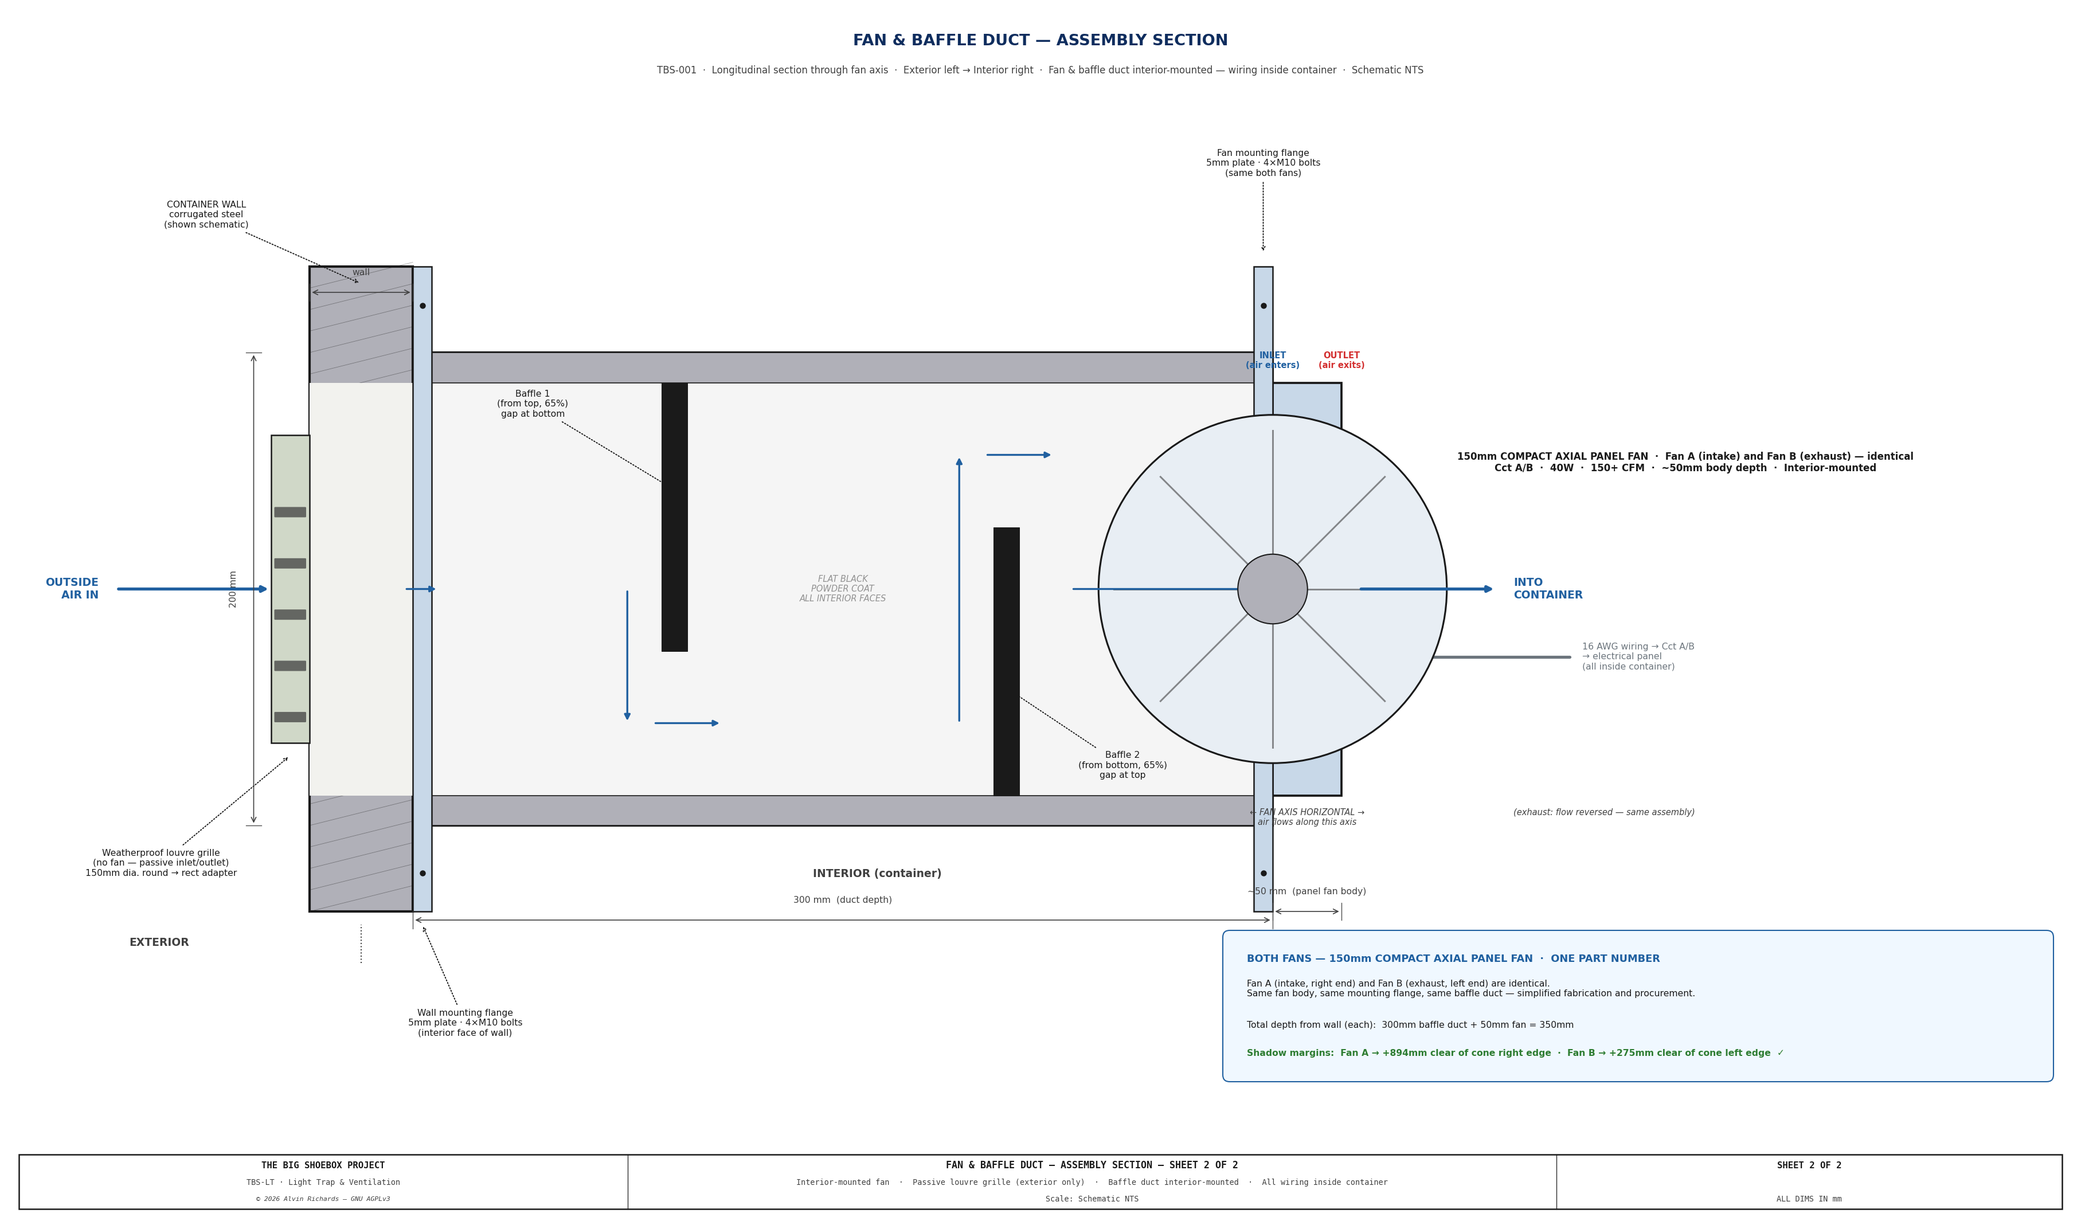
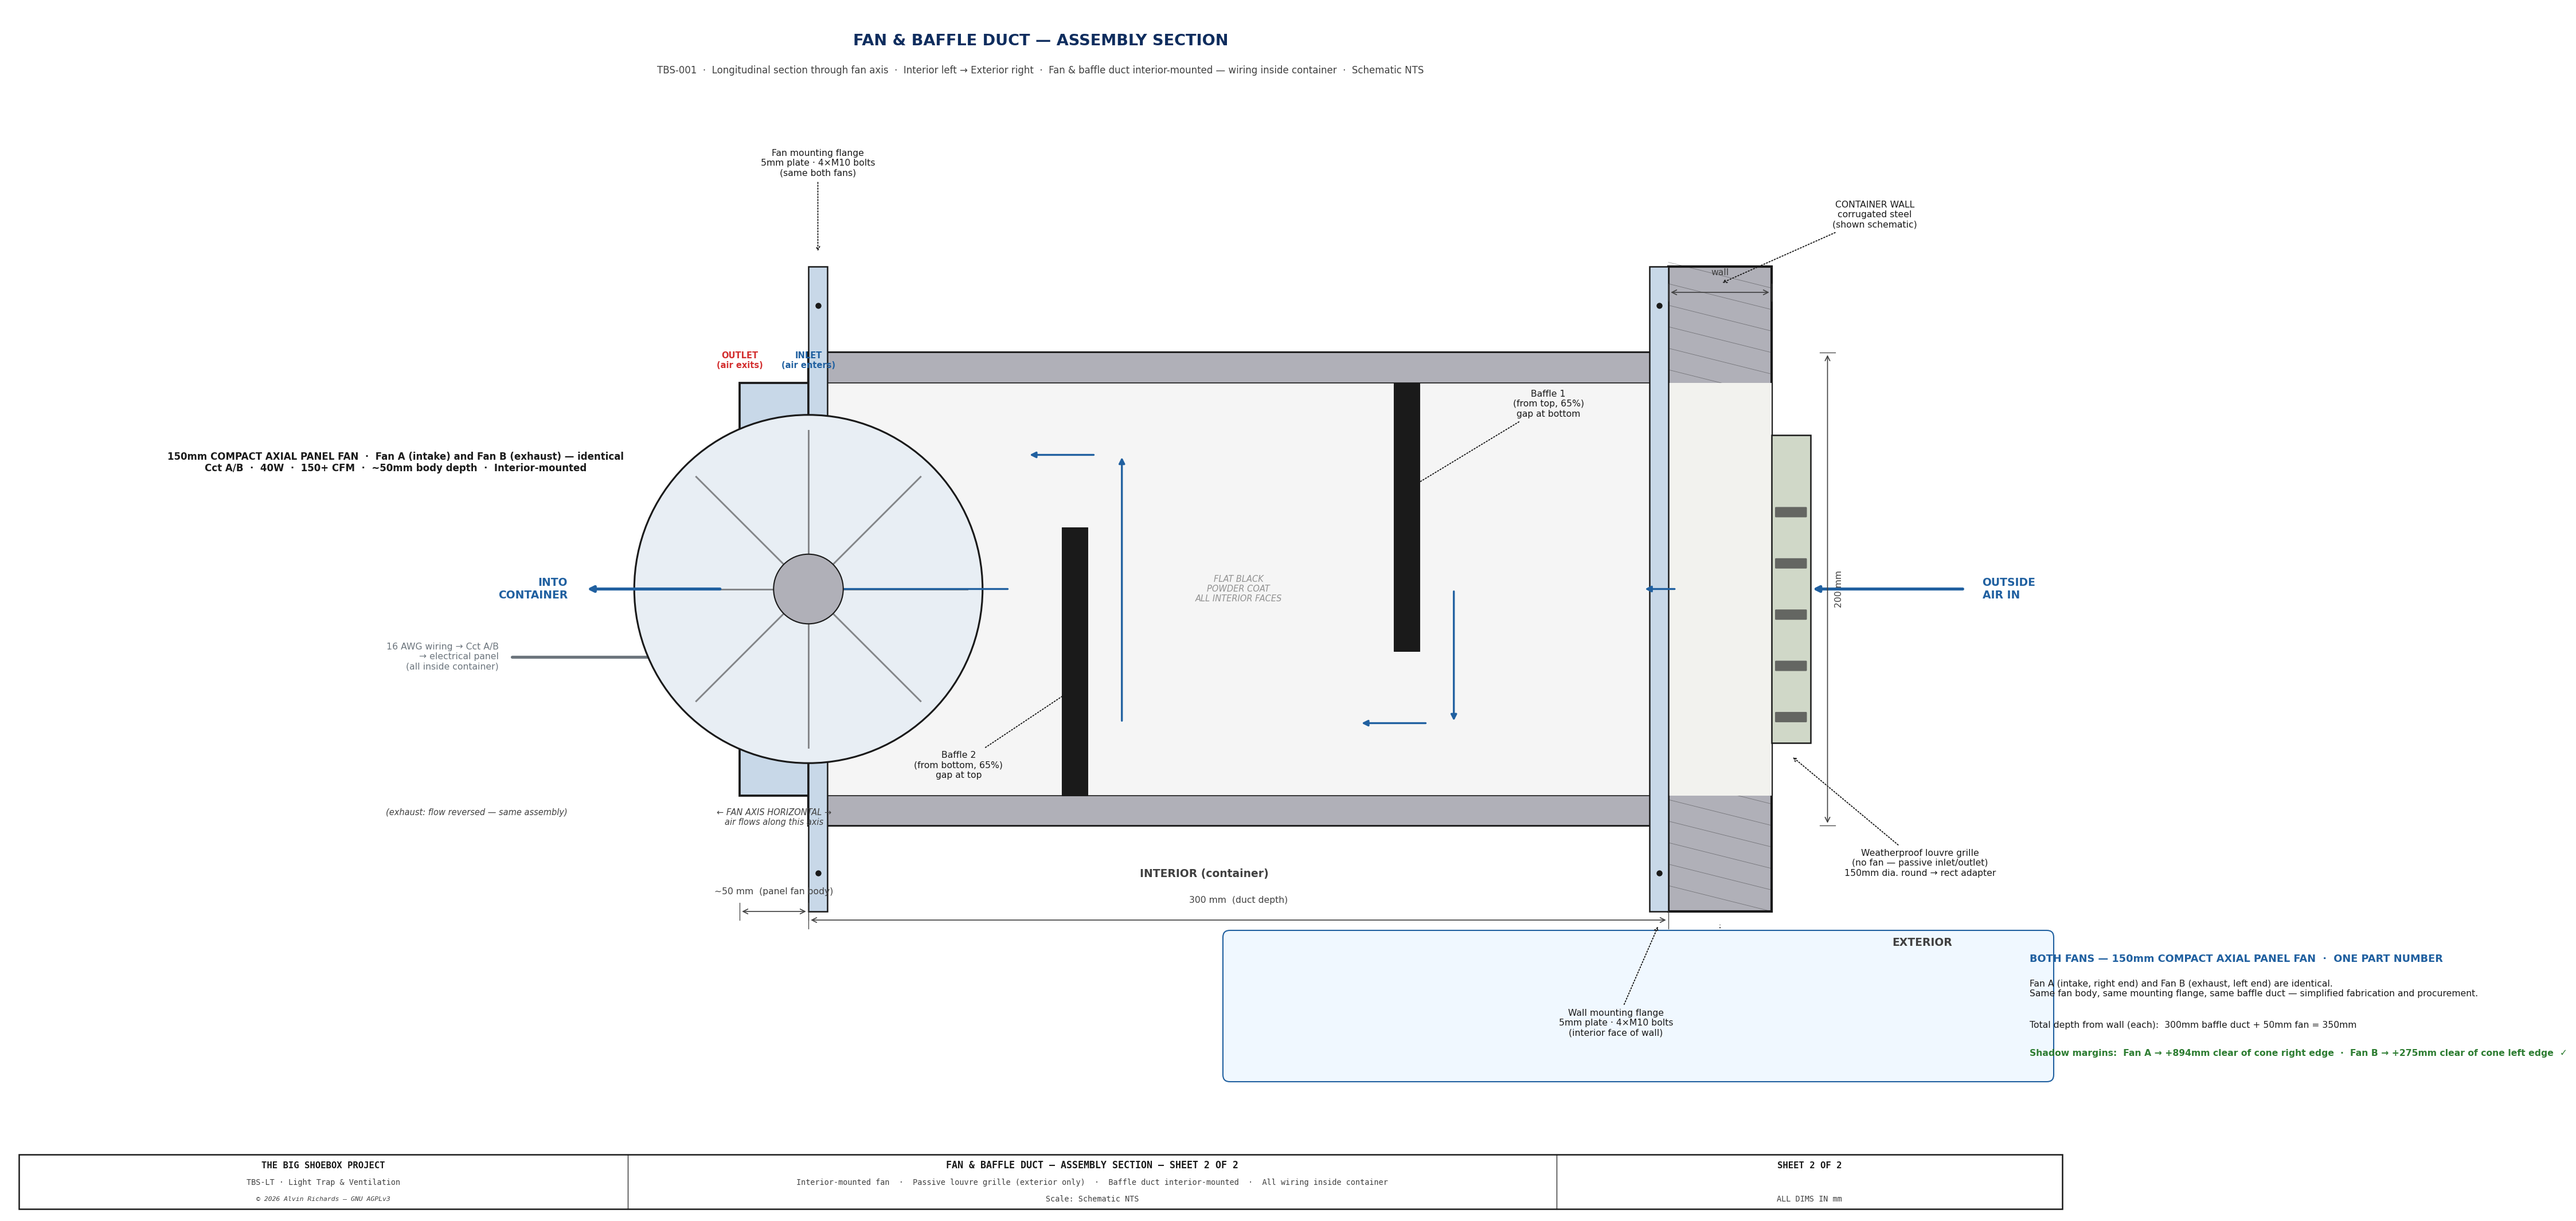
Lighttrap sheet 2: flip orientation so interior (fan) is on the left

diff --git a/generate_lighttrap_diagram.py b/generate_lighttrap_diagram.py
@@ -304,7 +304,7 @@ def draw_sheet2():
             ha="center", va="center", fontsize=13, fontweight="bold",
             color=TITLE_COL)
     ax.text(FW / 2, FH - 0.72,
-            "TBS-001  ·  Longitudinal section through fan axis  ·  Exterior left → Interior right  ·  "
+            "TBS-001  ·  Longitudinal section through fan axis  ·  Interior left → Exterior right  ·  "
             "Fan & baffle duct interior-mounted — wiring inside container  ·  Schematic NTS",
             ha="center", va="center", fontsize=8.0, color=C_DIM)
 
@@ -457,7 +457,7 @@ def draw_sheet2():
             color=C_PIPE, lw=2.5, solid_capstyle="round", zorder=5)
     ax.text(WR_X + 2.65, FAN_CY - PF_R * 0.35,
             "16 AWG wiring → Cct A/B\n→ electrical panel\n(all inside container)",
-            ha="left", va="center", fontsize=7.5, color=C_PIPE, zorder=10)
+            ha="right", va="center", fontsize=7.5, color=C_PIPE, zorder=10)
 
     ax.text(FAN_X + PF_BD * 6, FAN_CY + PF_R - 0.65, #FAN_CY - PF_R - 0.55,
             "150mm COMPACT AXIAL PANEL FAN  ·  Fan A (intake) and Fan B (exhaust) — identical\n"
@@ -478,7 +478,7 @@ def draw_sheet2():
     ax.annotate("", xy=(WX - GL_W, mid_y), xytext=(WX - GL_W - 1.8, mid_y),
                 arrowprops=dict(arrowstyle="-|>", color=pc, lw=2.5), zorder=8)
     ax.text(WX - GL_W - 2.0, mid_y, "OUTSIDE\nAIR IN",
-            ha="right", va="center", fontsize=9.0, color=pc, fontweight="bold", zorder=10)
+            ha="left", va="center", fontsize=9.0, color=pc, fontweight="bold", zorder=10)
     # Through wall opening into duct
     ax.annotate("", xy=(DUCT_X + 0.3, mid_y), xytext=(WX + WT - 0.1, mid_y),
                 arrowprops=dict(arrowstyle="-|>", color=pc, lw=plw), zorder=7)
@@ -499,10 +499,10 @@ def draw_sheet2():
                 xytext=(FAN_X + PF_BD + 0.2, mid_y),
                 arrowprops=dict(arrowstyle="-|>", color=pc, lw=2.5), zorder=8)
     ax.text(FAN_X + PF_BD + 2.0, mid_y, "INTO\nCONTAINER",
-            ha="left", va="center", fontsize=9.0, color=pc, fontweight="bold", zorder=10)
+            ha="right", va="center", fontsize=9.0, color=pc, fontweight="bold", zorder=10)
     ax.text(FAN_X + PF_BD + 2.0, mid_y - FAN_R - 0.3,
             "(exhaust: flow reversed — same assembly)",
-            ha="left", va="top", fontsize=7.0, color=C_DIM, style="italic", zorder=10)
+            ha="right", va="top", fontsize=7.0, color=C_DIM, style="italic", zorder=10)
 
     # ── Zone labels ───────────────────────────────────────────────────────────
     ax.text(WX / 2, wall_y0 - 0.3, "EXTERIOR",
@@ -526,7 +526,7 @@ def draw_sheet2():
                offset=0.33, fs=7.5, zorder=10, color=C_DIM)
 
     # ── Shadow margin / procurement note ─────────────────────────────────────
-    NX, NY = FW - 9.5 - 0.3, 1.6
+    NX, NY = 0.3, 1.6
     ax.add_patch(mpatches.FancyBboxPatch((NX, NY), 9.5, 1.6,
                  boxstyle="round,pad=0.08", fc="#F0F8FF", ec=C_CL, lw=1.0, zorder=9))
     ax.text(NX + 0.20, NY + 1.35,
@@ -542,6 +542,9 @@ def draw_sheet2():
     ax.text(NX + 0.20, NY + 0.25,
             "Shadow margins:  Fan A → +894mm clear of cone right edge  ·  Fan B → +275mm clear of cone left edge  ✓",
             ha="left", va="center", fontsize=7.5, color="#2E7D32", fontweight="bold", zorder=10)
+
+    # Mirror so interior (fan) is on the left, exterior on the right
+    ax.invert_xaxis()
 
     title_block(ax, "SHEET 2 OF 2",
                 drawing_title="FAN & BAFFLE DUCT — ASSEMBLY SECTION",
